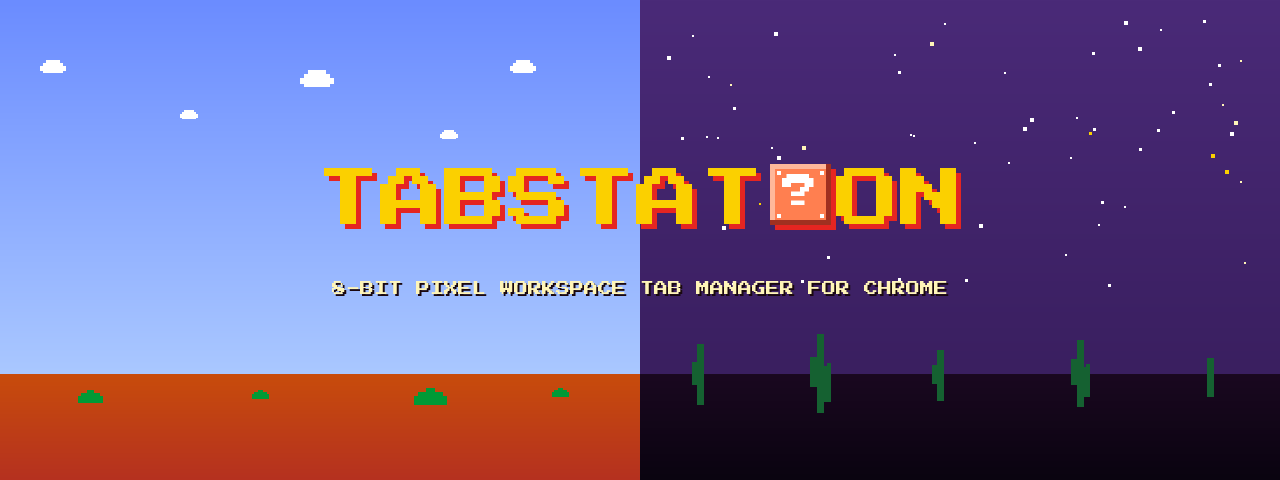
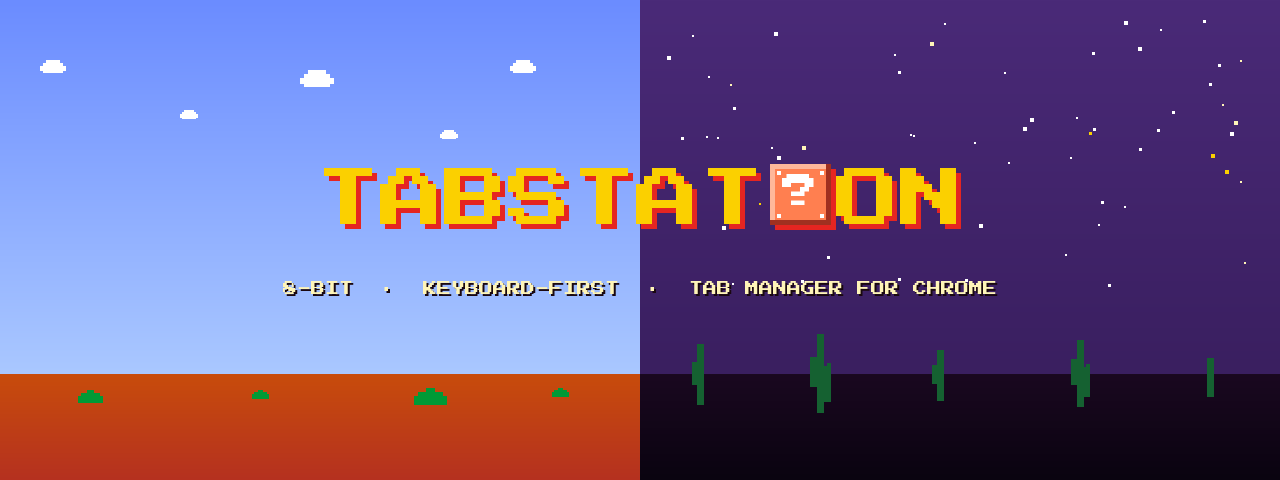
Lead with "keyboard-first" in the pitch
- Hero banner tagline now reads
  "8-BIT · KEYBOARD-FIRST · TAB MANAGER FOR CHROME"
- README blockquote calls out keyboard-first and "without ever
  reaching for the mouse"
- "Why Tabstation?" table promotes the keyboard row to the top,
  since it's the main differentiator vs other tab managers
- GitHub repo description updated to lead with "Keyboard-first"

Changed region(s): [[0.2188, 0.5625, 0.7812, 0.625]]

diff --git a/screenshots/make_hero.py b/screenshots/make_hero.py
@@ -224,7 +224,7 @@ def main():
 
     # Tagline
     tagline_font = ImageFont.truetype(FONT_PATH, 14)
-    tagline = "8-BIT PIXEL WORKSPACE TAB MANAGER FOR CHROME"
+    tagline = "8-BIT  ·  KEYBOARD-FIRST  ·  TAB MANAGER FOR CHROME"
     tb = tagline_font.getbbox(tagline)
     tagline_x = (W - (tb[2] - tb[0])) // 2
     tagline_y = ty + ch + 50

diff --git a/README.md b/README.md
@@ -1,6 +1,6 @@
 # Tabstation
 
-> An 8-bit pixel workspace tab manager for Chrome. Pin one tab, run everything from there.
+> An 8-bit pixel, **keyboard-first** workspace tab manager for Chrome. Pin one tab, run everything from there — without ever reaching for the mouse.
 
 ![Tabstation hero](./screenshots/hero.png)
 
@@ -12,13 +12,13 @@ If you live in Chrome and any of these sound familiar, this is for you:
 
 | Pain | Tabstation's fix |
 | --- | --- |
+| ⌨ I hate reaching for the mouse | **Keyboard-first** — every action has a single-key shortcut. Vim-style `hjkl` or arrow keys; modals support Tab / Enter / Esc properly. You can literally never touch the mouse. |
 | 😩 30+ tabs and I can't find anything | **Live tab list** with three views (by window / by site / by recency), full-page search |
 | 🤦 Accidentally closed a tab and `Cmd+Shift+T` only goes back one | **RECENTLY CLOSED** section — one click to restore any of the last 15 tabs/windows |
 | 🔁 Switching between projects means opening the same 8 tabs every time | **Workspaces**: save a group of URLs once, press Enter to open them all as a colour-coded Chrome tab group |
 | 🧹 Done with a project — close *those* tabs but keep the unrelated ones | `Shift+Enter` **switches** workspaces: stash the old tabs (recoverable) and open the new ones |
 | 🪲 17 Notion tabs, want them all gone | **BY SITE × ALL** — close every tab from a domain in one click |
 | 🌪 Stray tabs that aren't part of any project pile up | **🗑 Orphan cleanup** — top-bar button closes everything not in any workspace |
-| ⌨ I hate the mouse | **Full keyboard nav** — arrow keys / `hjkl` everywhere, Enter to act, `?` for help |
 
 ---
 
